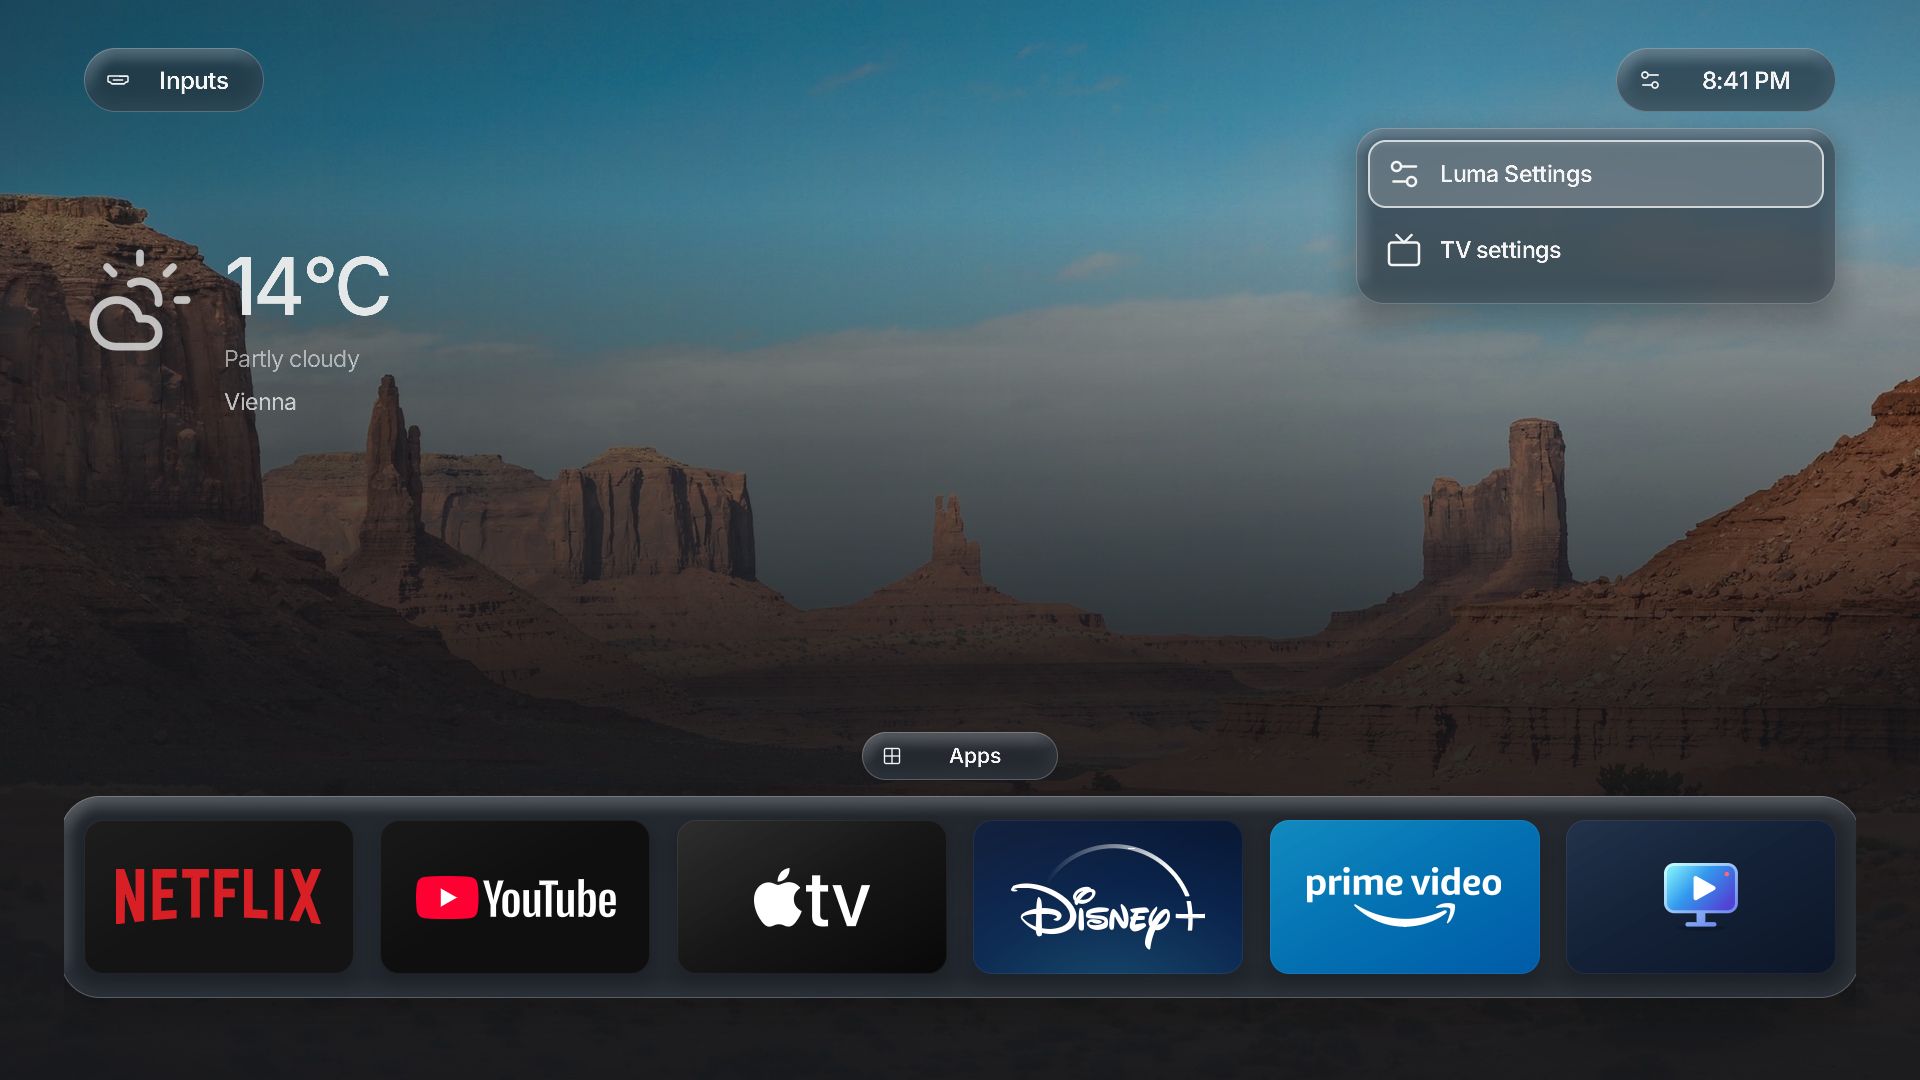
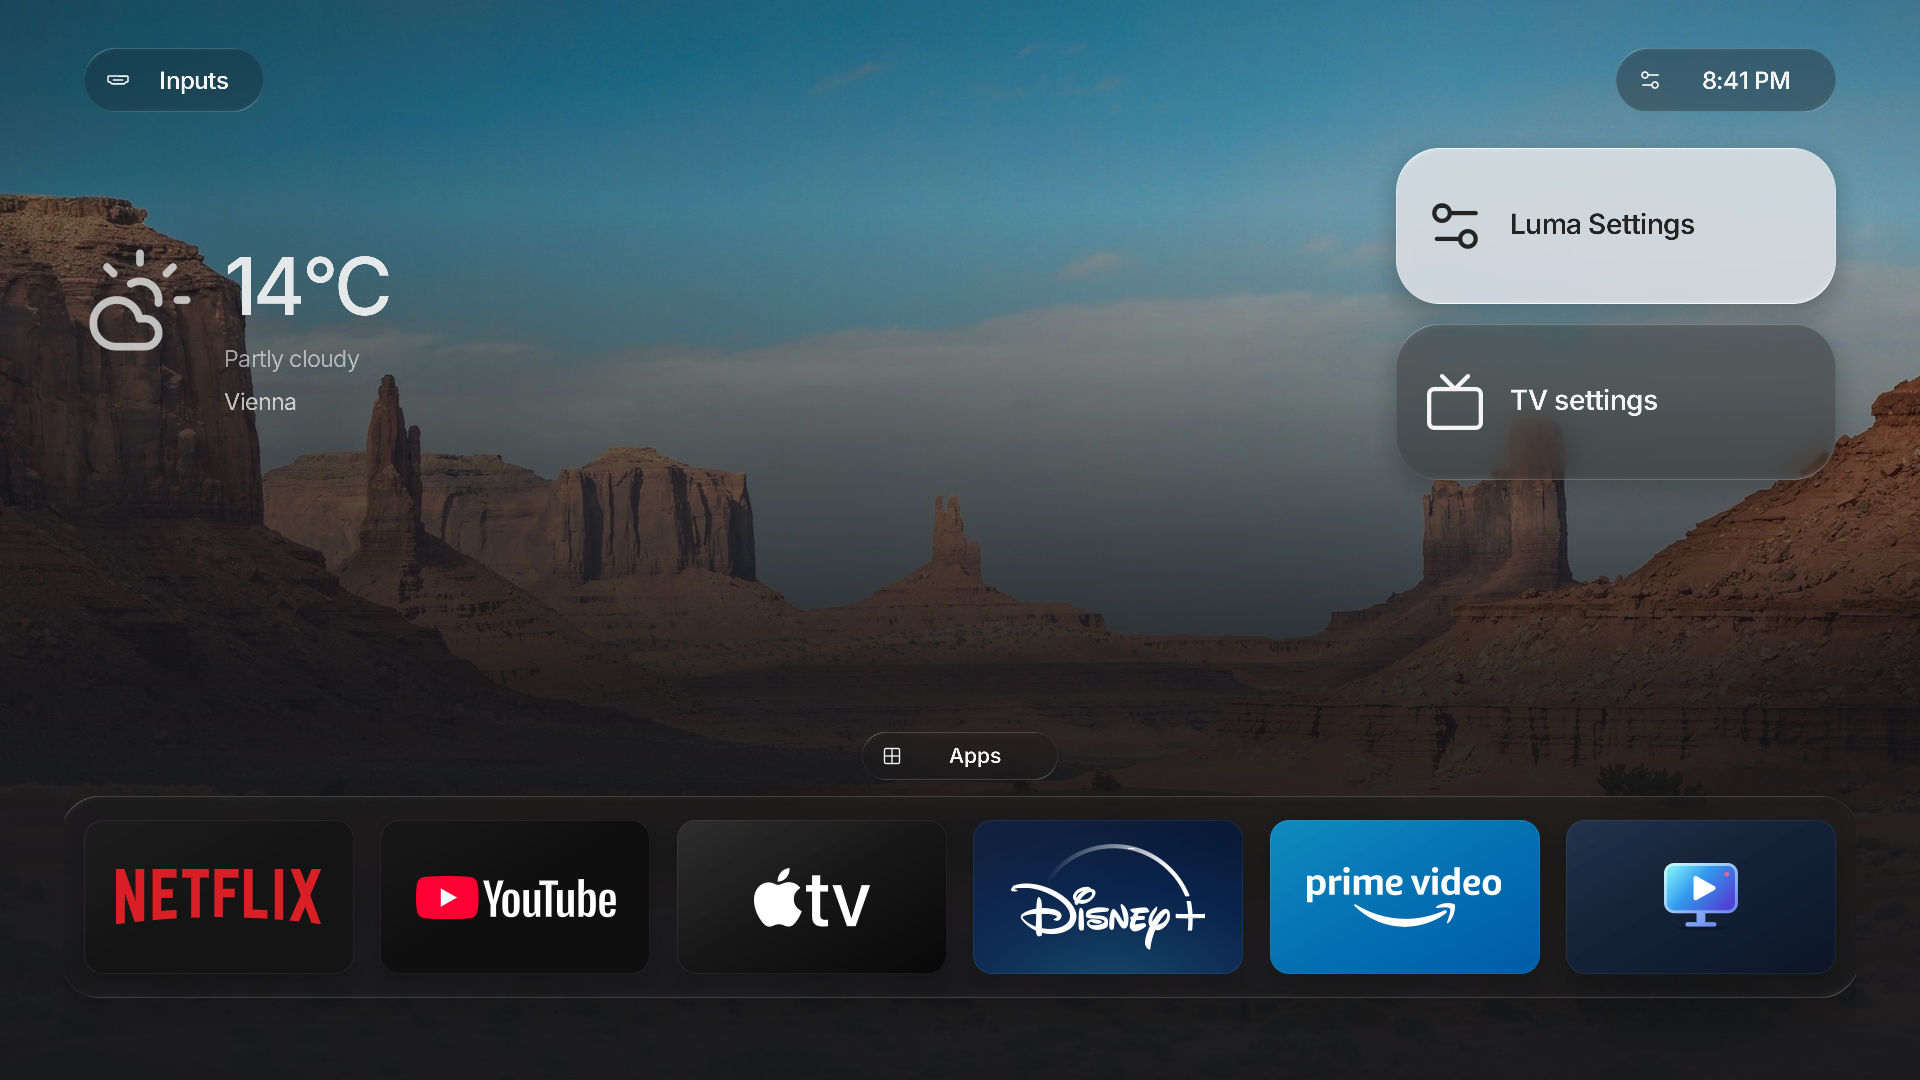
feat: refine glass optics and add Control Center-style settings

diff --git a/src/view.rs b/src/view.rs
@@ -183,8 +183,7 @@ pub struct Scene {
 }
 impl Scene {
     fn glass(&mut self, rect: Rect, radius: f32) {
-        self.draw.push(Draw::Glass(rect, radius, c(0x18212b, 0.96)));
-        self.border(rect, radius, 1., c(0xffffff, 0.22));
+        self.draw.push(Draw::Glass(rect, radius, c(0x202020, 0.96)));
     }
     fn new() -> Self {
         Self {
@@ -751,49 +750,71 @@ fn header(out: &mut Scene, state: &State, assets: &Assets, now: OffsetDateTime) 
 
 fn corner_menu(out: &mut Scene, state: &State, assets: &Assets) {
     let language = state.preferences.language;
-    let inputs = matches!(state.overlay, Some(Overlay::Inputs));
-    let entries: Vec<_> = if inputs {
-        state
-            .inventory
-            .inputs
-            .iter()
-            .filter(|input| state.preferences.input_visible(input))
-            .map(|input| {
-                (
-                    Target::Input(input.id.clone()),
-                    state.preferences.input_title(input).to_owned(),
-                    format!(
-                        "input-{}",
-                        state
-                            .preferences
-                            .input_icon(&input.id)
-                            .unwrap_or_else(|| input_icon(
-                                input,
-                                state.preferences.input_name(input)
-                            ))
-                    ),
-                    input.connected,
-                )
-            })
-            .collect()
-    } else {
-        vec![
+    if matches!(state.overlay, Some(Overlay::Settings)) {
+        // Independent floating controls, not nested glass inside a glass panel.
+        let panel = Rect::new(1396., 148., 440., 340.);
+        out.controls.clear();
+        out.modal = Some(panel);
+        for (index, (target, label, icon)) in [
             (
                 Target::LumaSettings,
                 format!("Luma {}", language.t("settings")),
-                "settings".into(),
-                None,
+                "settings",
             ),
-            (
-                Target::TvSettings,
-                language.t("tvSettings").into(),
-                "tv".into(),
-                None,
-            ),
+            (Target::TvSettings, language.t("tvSettings").into(), "tv"),
         ]
-    };
+        .into_iter()
+        .enumerate()
+        {
+            let rect = Rect::new(panel.x, panel.y + index as f32 * 176., panel.w, 156.);
+            out.shadow(rect, 44., 28., 10., 0.24);
+            let focused = state.focus == target;
+            out.draw.push(Draw::Glass(
+                rect,
+                44.,
+                c(if focused { 0xe5ebf0 } else { 0x202020 }, 0.96),
+            ));
+            let foreground = if focused { c(0x242424, 1.) } else { WHITE };
+            out.icon(
+                assets,
+                icon,
+                Rect::new(rect.x + 28., rect.y + 47., 62., 62.),
+                foreground,
+            );
+            let (label, style) = assets.fit_line(&label, text(28., 550, -0.02), rect.w - 134., 19.);
+            out.text(
+                label,
+                Rect::new(rect.x + 114., rect.y + 59., rect.w - 134., 40.),
+                style,
+                foreground,
+                false,
+            );
+            out.control(target, rect, false);
+        }
+        return;
+    }
+    let entries: Vec<_> = state
+        .inventory
+        .inputs
+        .iter()
+        .filter(|input| state.preferences.input_visible(input))
+        .map(|input| {
+            (
+                Target::Input(input.id.clone()),
+                state.preferences.input_title(input).to_owned(),
+                format!(
+                    "input-{}",
+                    state
+                        .preferences
+                        .input_icon(&input.id)
+                        .unwrap_or_else(|| input_icon(input, state.preferences.input_name(input)))
+                ),
+                input.connected,
+            )
+        })
+        .collect();
     let panel = Rect::new(
-        if inputs { 84. } else { 1356. },
+        84.,
         128.,
         480.,
         (entries.len().max(1) as f32 * 76. + 24.).min(900.),
@@ -837,20 +858,18 @@ fn corner_menu(out: &mut Scene, state: &State, assets: &Assets) {
             WHITE,
             false,
         );
-        if inputs {
-            out.shape(
-                Rect::new(rect.x + rect.w - 28., rect.y + 29., 10., 10.),
-                5.,
-                c(
-                    if connected == Some(true) {
-                        0x60e6a0
-                    } else {
-                        0x8c949c
-                    },
-                    1.,
-                ),
-            );
-        }
+        out.shape(
+            Rect::new(rect.x + rect.w - 28., rect.y + 29., 10., 10.),
+            5.,
+            c(
+                if connected == Some(true) {
+                    0x60e6a0
+                } else {
+                    0x8c949c
+                },
+                1.,
+            ),
+        );
         out.control(target, rect, false);
     }
     out.draw.push(Draw::Clip(None));

diff --git a/src/glass-home-tests.rs b/src/glass-home-tests.rs
@@ -5,6 +5,32 @@ use crate::{
 };
 
 #[test]
+fn control_center_uses_separate_floating_actions_and_preserves_navigation() {
+    let mut state = ready();
+    state.focus = Target::SettingsMenu;
+    state.activate();
+    let rendered = scene(&state);
+    assert_eq!(rendered.controls.len(), 2);
+    for control in &rendered.controls {
+        assert_eq!(control.rect.x + control.rect.w, 1836.);
+        assert!(rendered.draw.iter().any(|draw| matches!(draw,
+            Draw::Glass(rect, radius, _) if (rect.x, rect.y, rect.w, rect.h) ==
+                (control.rect.x, control.rect.y, control.rect.w, control.rect.h) && *radius == 44.
+        )));
+    }
+    let panel = rendered.modal.unwrap();
+    assert!(!rendered.draw.iter().any(|draw| matches!(draw,
+        Draw::Glass(rect, ..) if (rect.x, rect.y, rect.w, rect.h) == (panel.x, panel.y, panel.w, panel.h)
+    )));
+    assert_eq!(state.focus, Target::LumaSettings);
+    state.direction(Direction::Down, &rendered.controls);
+    assert_eq!(state.focus, Target::TvSettings);
+    state.back();
+    assert!(state.overlay.is_none());
+    assert_eq!(state.focus, Target::SettingsMenu);
+}
+
+#[test]
 fn down_opens_drawer_and_back_resets_to_first_favorite() {
     let mut state = ready();
     state.preferences.reduced_motion = true;

diff --git a/src/renderer.rs b/src/renderer.rs
@@ -1196,9 +1196,15 @@ impl Renderer {
         let key = format!("glass:{path}");
         let entry = self.textures.entry(key).or_insert_with(|| {
             image::open(path).ok().map(|image| {
-                let small = image.resize_exact(480, 270, image::imageops::FilterType::Triangle);
-                let blurred = small.blur(3.).to_rgba8();
-                texture(480, 270, blurred.as_raw())
+                // Two filter levels in one atlas keep the GLES2 sampler count unchanged.
+                // The rim retains detail while larger interiors scatter more light.
+                let small = image.resize_exact(960, 540, image::imageops::FilterType::Triangle);
+                let sharp = small.to_rgba8();
+                let blurred = small.blur(8.).to_rgba8();
+                let mut atlas = image::RgbaImage::new(960, 1080);
+                image::imageops::replace(&mut atlas, &sharp, 0, 0);
+                image::imageops::replace(&mut atlas, &blurred, 0, 540);
+                texture(960, 1080, atlas.as_raw())
             })
         });
         if let Some(texture) = entry {

diff --git a/docs/liquid-glass-research.md b/docs/liquid-glass-research.md
@@ -1,0 +1,64 @@
+# Liquid Glass research and implementation
+
+## What Apple documents
+
+- [Meet Liquid Glass, WWDC25](https://developer.apple.com/videos/play/wwdc2025/219/)
+  describes lensing that bends and concentrates light, rather than blur alone; size-dependent
+  scattering, adaptive tint/shadows, and interaction-driven highlights. Glass is a control/navigation
+  layer, not a treatment for every content surface. Avoid stacking glass on glass.
+- [Adopting Liquid Glass](https://developer.apple.com/documentation/technologyoverviews/adopting-liquid-glass)
+  explains tvOS focus adoption and warns that custom backgrounds can interfere with the effect.
+- [Human Interface Guidelines: Materials](https://developer.apple.com/design/human-interface-guidelines/materials)
+  distinguishes Regular's luminosity adjustment from Clear's media-first transparency. It recommends
+  Regular for text-heavy popovers/sidebars, and considering 35% dimming beneath Clear on bright media.
+  The tvOS section explicitly identifies Control Center, Top Shelf and focus as Liquid Glass uses.
+- [Apple's tvOS 26 announcement](https://www.apple.com/newsroom/2025/06/apple-tv-brings-a-beautiful-redesign-and-enhanced-home-entertainment-experience/)
+  emphasizes real-time reflection/refraction and keeping content visible behind Control Center.
+
+Apple distinguishes adaptive Regular material from transparent Clear material. Clear calls for
+bright/bold foreground content and dimming beneath media; it is not simply Regular with reduced
+opacity. Apple has not published the shader, filter graph or numeric material parameters.
+
+## Independent technical references
+
+- [OverShifted/LiquidGlass](https://github.com/OverShifted/LiquidGlass/tree/3797fa541c1f026c521a75885ee271f03bdf9f0f):
+  inspected `BatchRenderer2D.glsl` and `Blur.glsl`. Uses a superellipse distance approximation,
+  nonlinear backdrop remapping and a separate separable blur. Useful as an optical demonstration,
+  not an Apple implementation; GLSL 450, 32 samplers and its framebuffer workflow cannot be used
+  directly in Luma's GLES2 renderer. No source code was copied.
+- [Independent optical-model analysis](https://liquidglass.shayxo.dev/research/optical-model/):
+  useful hypotheses include accurate SDF gradients, bounded displacement, sharper rims and softer
+  interiors. Its numeric values and fidelity claims are not Apple documentation. Refraction
+  direction differs among independent models and should not be described as an established Apple fact.
+
+## Reference-image comparison
+
+The supplied dock preserves recognizable wallpaper colors/details behind the app artwork. Its
+edge is a fine light-catching contour, not a broad blue bevel. The supplied Control Center uses
+independent rounded floating controls without a large outer glass container. The white selected
+control is distinct from the translucent unselected controls.
+
+The first Luma implementation hid the wallpaper behind 66% dark blue tint and blurred its only
+backdrop level. A 22px bevel and incorrect flat-edge normals made it look like frosted plastic.
+
+## Luma approximation
+
+- Neutral, luminance-dependent absorption replaces the fixed blue tint. Focus remains an explicit
+  pale surface with dark foreground content for remote legibility. This is a Regular-like adaptive
+  approximation, not a claim to implement Apple's Clear material; bright backgrounds need stronger
+  absorption to retain white-label contrast.
+- A two-level cached wallpaper atlas retains sharp detail at the rim and increases scattering
+  inside. Both levels crossfade with wallpaper changes. Atlas-half clamps prevent seam leakage.
+- Analytical rounded-box gradients give horizontal/vertical normals on flat edges and radial
+  normals at corners. Displacement is bounded to 9 logical pixels in a 4–10px rim.
+- A narrow directional contour replaces the uniform white outline and wide painted bevel.
+- Settings entry uses two independent right-side controls for existing actions only. No fake
+  power, network, audio or timer controls are added.
+
+These are authored approximation parameters, not reverse-engineered Apple constants. Wallpaper
+sampling does not include UI behind a surface, does not respond to live video, and does not model
+Apple's full reflection, vibrancy or fluid morphing. Cached filtering is performed when a wallpaper
+is first used; it is not a per-frame blur. Each atlas costs about 4 MiB before driver overhead,
+versus about 0.5 MiB previously. The existing texture budget/eviction still applies. GLES2 now
+uses four backdrop fetches per glass fragment rather than two. Actual older-TV GPU performance
+must be measured manually; desktop captures cannot establish either hardware speed or exact tvOS fidelity.

diff --git a/development.md b/development.md
@@ -173,17 +173,21 @@ Back closes the drawer and resets focus and horizontal scroll to the first favor
 over either favorites dock scrolls horizontally. Pointer hover/down never initiates reveal scrolling.
 Grid Up/Down follows six-column indices, including offscreen rows, with the first row leading to
 the category/search toolbar. The top-left Inputs dropdown shows icons, names and connection dots,
-not descriptions. The clock dropdown offers Luma Settings and native LG TV settings.
+not descriptions. The clock opens two right-aligned, floating Control Center-style controls for
+Luma Settings and native LG TV settings. It does not replace LG's native settings UI.
 
 ### Liquid Glass renderer
 
 `Draw::Glass` is a GLES2 rounded-distance-field material inspired by
 [OverShifted/LiquidGlass](https://github.com/OverShifted/LiquidGlass). The implementation is original,
-not a vendored copy of that shader. It uses a cached 480×270 wallpaper backdrop with a small blur,
-edge refraction and directional highlights. Surfaces share the backdrop rather than each creating
+not a vendored copy of that shader. It caches sharp and blurred 960×540 wallpaper levels in one
+960×1080 atlas, with rounded-box normals, narrow edge lensing, adaptive neutral absorption and
+directional hairline highlights. The rim retains more detail than the interior. Surfaces share the backdrop rather than each creating
 an FBO or sampling the framebuffer. Text and app artwork are separate, sharp draws. Wallpaper
 crossfades blend both glass backdrops. Wallpaper changes already invalidate the full scene, while
 ordinary glass changes participate in damage tracking.
+
+See [the research notes](docs/liquid-glass-research.md) for sources, visual decisions and limitations.
 
 For bounded GLES2 cost, refraction samples the wallpaper, not other UI controls behind a menu.
 Cached backdrop textures use the existing texture budget and eviction. `LUMA_GLASS=0` disables

diff --git a/.changeset/liquid-glass-home.md b/.changeset/liquid-glass-home.md
@@ -8,5 +8,6 @@ the corner controls, and Back closes the drawer and focuses the first favorite.
 
 Apps now launch directly from the main interface. Manage favorites, hidden apps, and uninstall
 actions in Settings → Apps. Inputs move into a top-left dropdown with names, icons, and connection
-dots. The top-right clock opens Luma Settings or native LG settings. Remove the Home greeting,
+dots. The top-right clock opens floating Control Center-style actions for Luma Settings or native
+LG settings. Glass uses neutral adaptive tint, sharper edge lensing and softer interiors. Remove the Home greeting,
 standalone date, and navigation tabs while preserving existing saved preferences.

diff --git a/readme.md b/readme.md
@@ -42,7 +42,8 @@ date have been removed.
   **Luma Settings → Apps**. Hidden apps remain listed there.
 - The **Inputs** dropdown at the top left shows names, icons, and connection dots, respecting
   each input's Auto / On / Off visibility setting.
-- The **clock** at the top right opens **Luma Settings** or LG's native **TV settings**.
+- The **clock** opens floating Control Center-style actions for **Luma Settings** or LG's native
+  **TV settings**. LG's native settings UI is unchanged.
 
 Screenshots are native desktop previews, not hardware performance claims.
 
